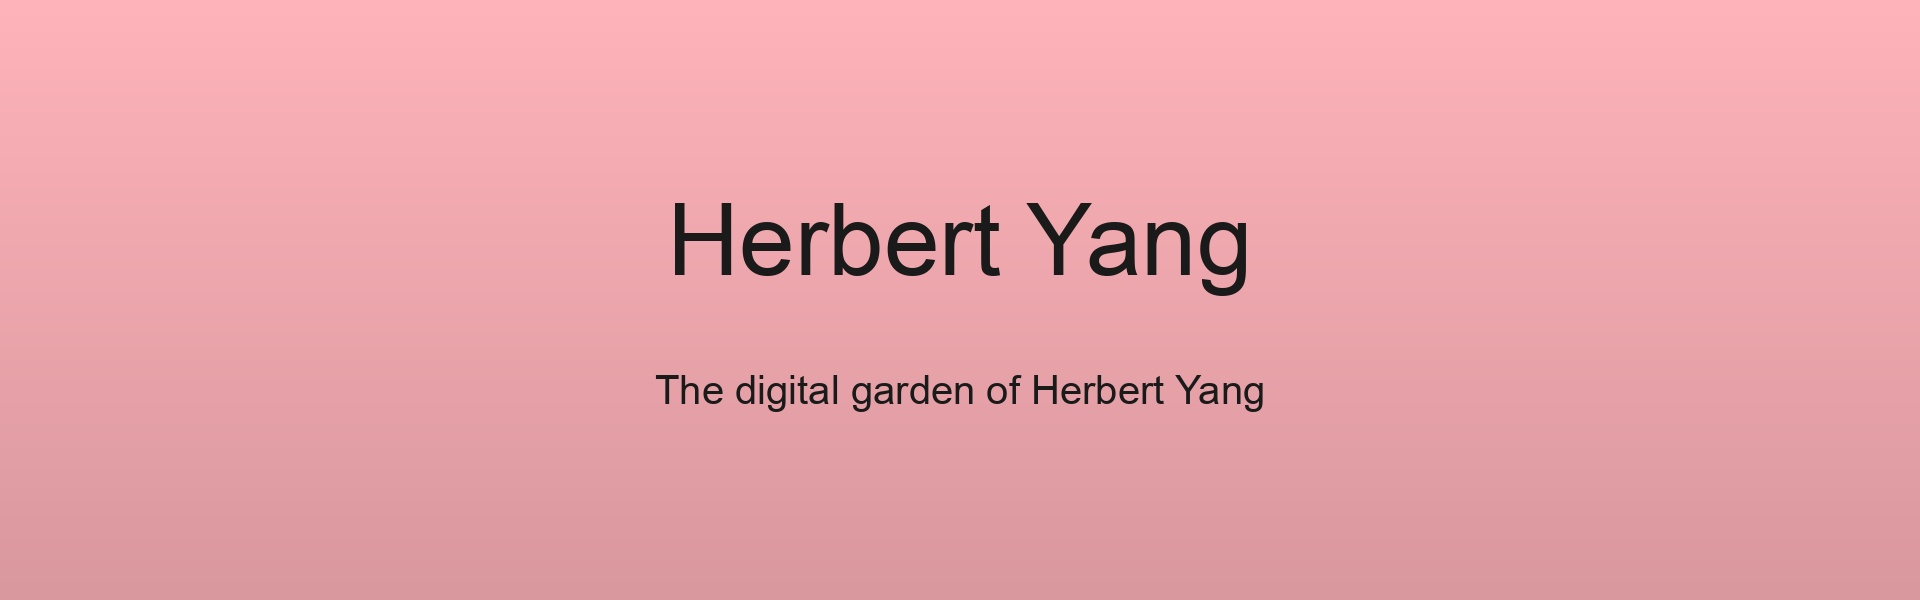
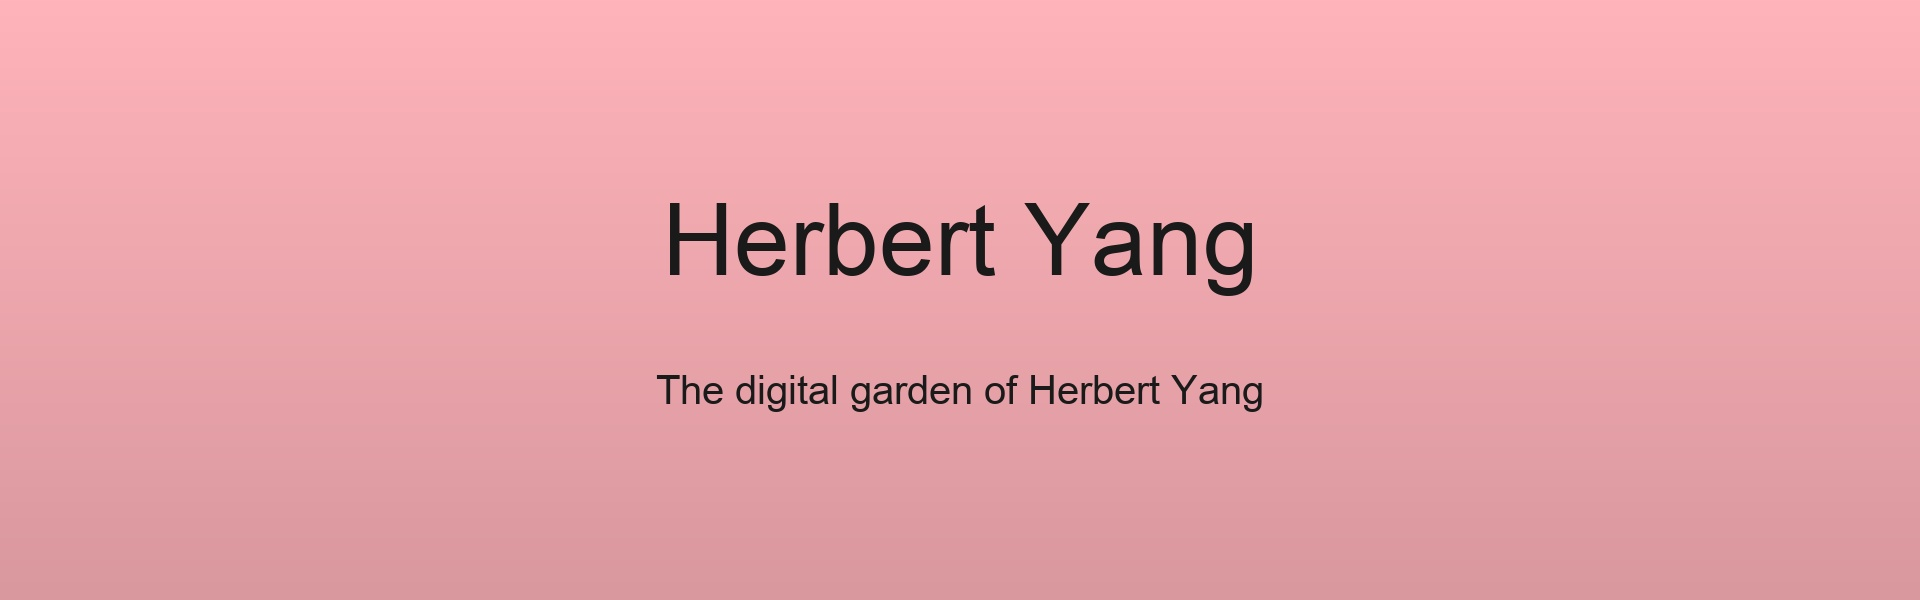
Add ic123 product page
Add ic123 to product portfolio with vanilla color theme. ic123 provides comprehensive Internet Computer developer resources in Chinese, targeting Chinese developers interested in crypto, AI, blockchain, and decentralization.

Changes:
- Add ic123 to products configuration
- Create ic123 product page with content
- Generate hero images for ic123
- Add ic123 card to homepage
- Regenerate all product hero images

🤖 Generated with [Claude Code](https://claude.com/claude-code)

Changed region(s): [[0.3438, 0.33, 0.6562, 0.51], [0.4375, 0.63, 0.6562, 0.69], [0.3438, 0.63, 0.375, 0.66]]

diff --git a/products/ic123/index.html b/products/ic123/index.html
@@ -1,0 +1,144 @@
+<!DOCTYPE html>
+<html lang="en">
+<head>
+  <meta charset="UTF-8">
+  <meta name="viewport" content="width=device-width, initial-scale=1.0">
+  <title>ic123 - Inturious Labs</title>
+  <meta name="description" content="Internet Computer developer resources in Chinese - comprehensive guides, tutorials, and documentation for IC blockchain development">
+
+  <!-- Open Graph / Social Media Preview -->
+  <meta property="og:title" content="ic123 - Inturious Labs">
+  <meta property="og:description" content="Internet Computer developer resources in Chinese">
+  <meta property="og:image" content="https://inturious.com/img/products/ic123-social-preview.jpg">
+  <meta property="og:url" content="https://inturious.com/products/ic123/">
+  <meta property="og:type" content="website">
+
+  <!-- Twitter Card -->
+  <meta name="twitter:card" content="summary_large_image">
+  <meta name="twitter:title" content="ic123 - Inturious Labs">
+  <meta name="twitter:description" content="Internet Computer developer resources in Chinese">
+  <meta name="twitter:image" content="https://inturious.com/img/products/ic123-social-preview.jpg">
+
+  <link rel="stylesheet" href="../../css/pico.min.css">
+  <link rel="stylesheet" href="../../css/style.css">
+
+  <!-- Google Analytics -->
+  <script src="../../scripts/analytics.js"></script>
+
+  <!-- Product Color -->
+  <style>
+    :root {
+      --product-color: var(--color-vanilla);
+    }
+  </style>
+</head>
+<body>
+  <main class="container">
+    <div class="back-link">
+      <a href="../../index.html" role="button" class="secondary outline">← Back Home</a>
+    </div>
+
+    <!-- Hero Image Section -->
+    <div class="hero-image-section">
+      <img src="../../img/products/ic123-hero.jpg" alt="ic123" class="hero-image">
+      <span class="status-badge live">Live</span>
+    </div>
+
+    <section>
+      <h2>Target Users</h2>
+      <p>
+        Chinese developers interested in crypto, AI, blockchain, and decentralization
+      </p>
+    </section>
+
+    <section>
+      <h2>Pain Point</h2>
+      <p>
+        No Chinese documentation from the official internetcomputer.org site. The English official docs site changes frequently with broken links and conflicting/overlapping contents.
+      </p>
+    </section>
+
+    <section>
+      <h2>Proposed Solution</h2>
+      <p>
+        An all-in-one site for Chinese developers in Chinese with tutorials, how-to guides and examples.
+      </p>
+    </section>
+
+    <section>
+      <h2>Key Benefits</h2>
+      <p>Enable Chinese developers to learn the most advanced blockchain smart contract in their native language. Provide easy and intuitive navigation into the sprawling technology stacks of one of the most misunderstood blockchains.</p>
+    </section>
+
+    <!-- Optional: Add this section if you want to include a roadmap or timeline -->
+    <!--
+    <section class="roadmap">
+      <h2>Development Roadmap</h2>
+
+      <div class="roadmap-item">
+        <h4>Q1 2025 - [Phase Name]</h4>
+        <p>[Description of what will be delivered]</p>
+      </div>
+
+      <div class="roadmap-item">
+        <h4>Q2 2025 - [Phase Name]</h4>
+        <p>[Description of what will be delivered]</p>
+      </div>
+    </section>
+    -->
+
+    <section>
+      <h2>Get Started</h2>
+      <p>
+        Visit ic123 at <a href="https://ic123.xyz">ic123.xyz</a> to explore comprehensive Internet Computer resources in Chinese.
+      </p>
+    </section>
+
+    <!-- Rapport Comments Widget -->
+    <style>
+      /* Dark theme for Rapport widget */
+      #rapport {
+        background: transparent !important;
+        color: #f5f5f5 !important;
+      }
+      #rapport * {
+        background-color: transparent !important;
+        color: #f5f5f5 !important;
+      }
+      #rapport textarea,
+      #rapport input[type="text"] {
+        background-color: #2d2d2d !important;
+        border: 1px solid #555 !important;
+        color: #f5f5f5 !important;
+      }
+      #rapport button {
+        background-color: #555 !important;
+        color: #f5f5f5 !important;
+        border: 1px solid #777 !important;
+      }
+      #rapport button:hover {
+        background-color: #666 !important;
+      }
+    </style>
+    <div class="comments-section" style="margin: 3rem 0; padding: 2rem;">
+      <h2 style="text-align: center;">Comments & Discussion</h2>
+      <script src="https://kdcro-gqaaa-aaaai-q34gq-cai.icp0.io/ic-agent-bundle.js"></script>
+      <script src="https://kdcro-gqaaa-aaaai-q34gq-cai.icp0.io/ic-agent.js"></script>
+      <script src="https://kdcro-gqaaa-aaaai-q34gq-cai.icp0.io/widget.js?v=1.0.0"></script>
+      <div id="rapport"></div>
+      <script>
+        Rapport.init({
+          canisterId: 'kedx2-liaaa-aaaai-q34ga-cai',
+          pageUrl: window.location.href
+        });
+      </script>
+    </div>
+  </main>
+
+  <footer>
+    <div class="container">
+      <p>&copy; 2025 Inturious Labs</p>
+    </div>
+  </footer>
+</body>
+</html>

diff --git a/index.html b/index.html
@@ -84,12 +84,13 @@
         <a href="https://herbertyang.xyz" role="button" class="secondary">Learn More</a>
       </article>
 
-      <article class="product-card hidden">
-        <h3>ic123</h3>
-        <span class="status-badge live">Live</span>
-        <p>Internet Computer developer resources in Chinese</p>
-        <a href="products/ic123/index.html" role="button" class="secondary">Learn More</a>
-      </article>
+      <a href="products/ic123/index.html" class="product-card-link">
+        <article class="product-card" style="background: linear-gradient(135deg, var(--color-vanilla) 0%, color-mix(in srgb, var(--color-vanilla) 70%, black) 100%);">
+          <h3>ic123</h3>
+          <span class="status-badge live">Live</span>
+          <p>Internet Computer developer resources in Chinese</p>
+        </article>
+      </a>
 
       <article class="product-card hidden">
         <h3>Y3 Game Studio</h3>
